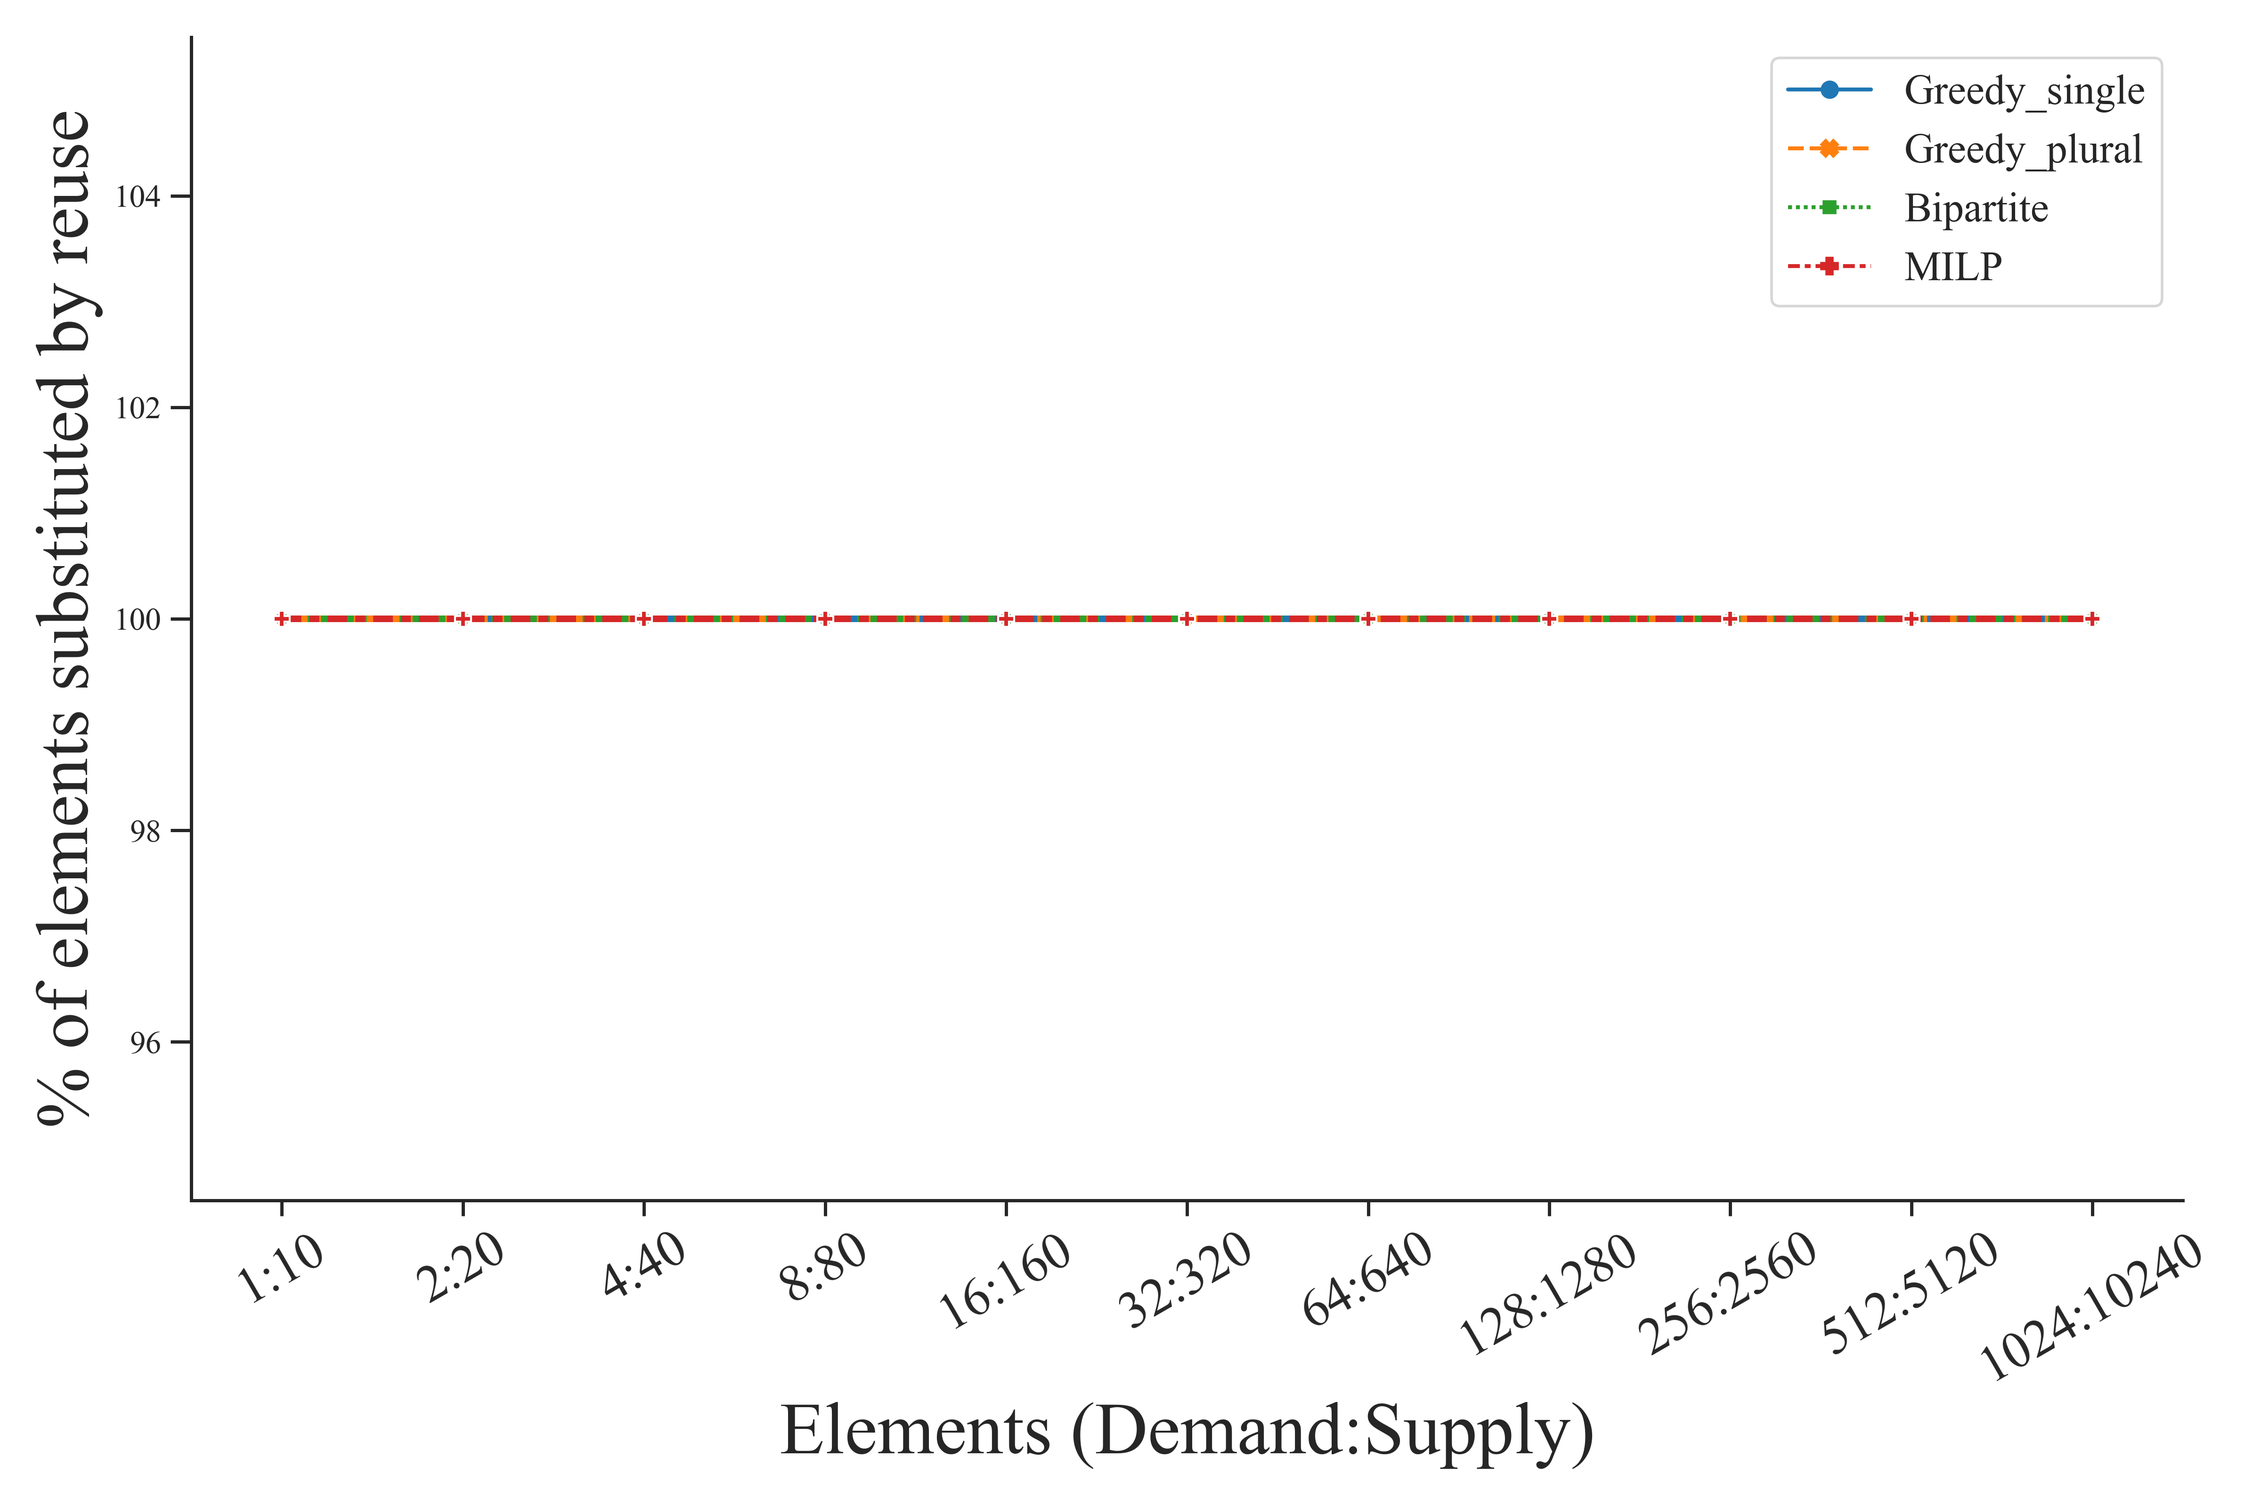
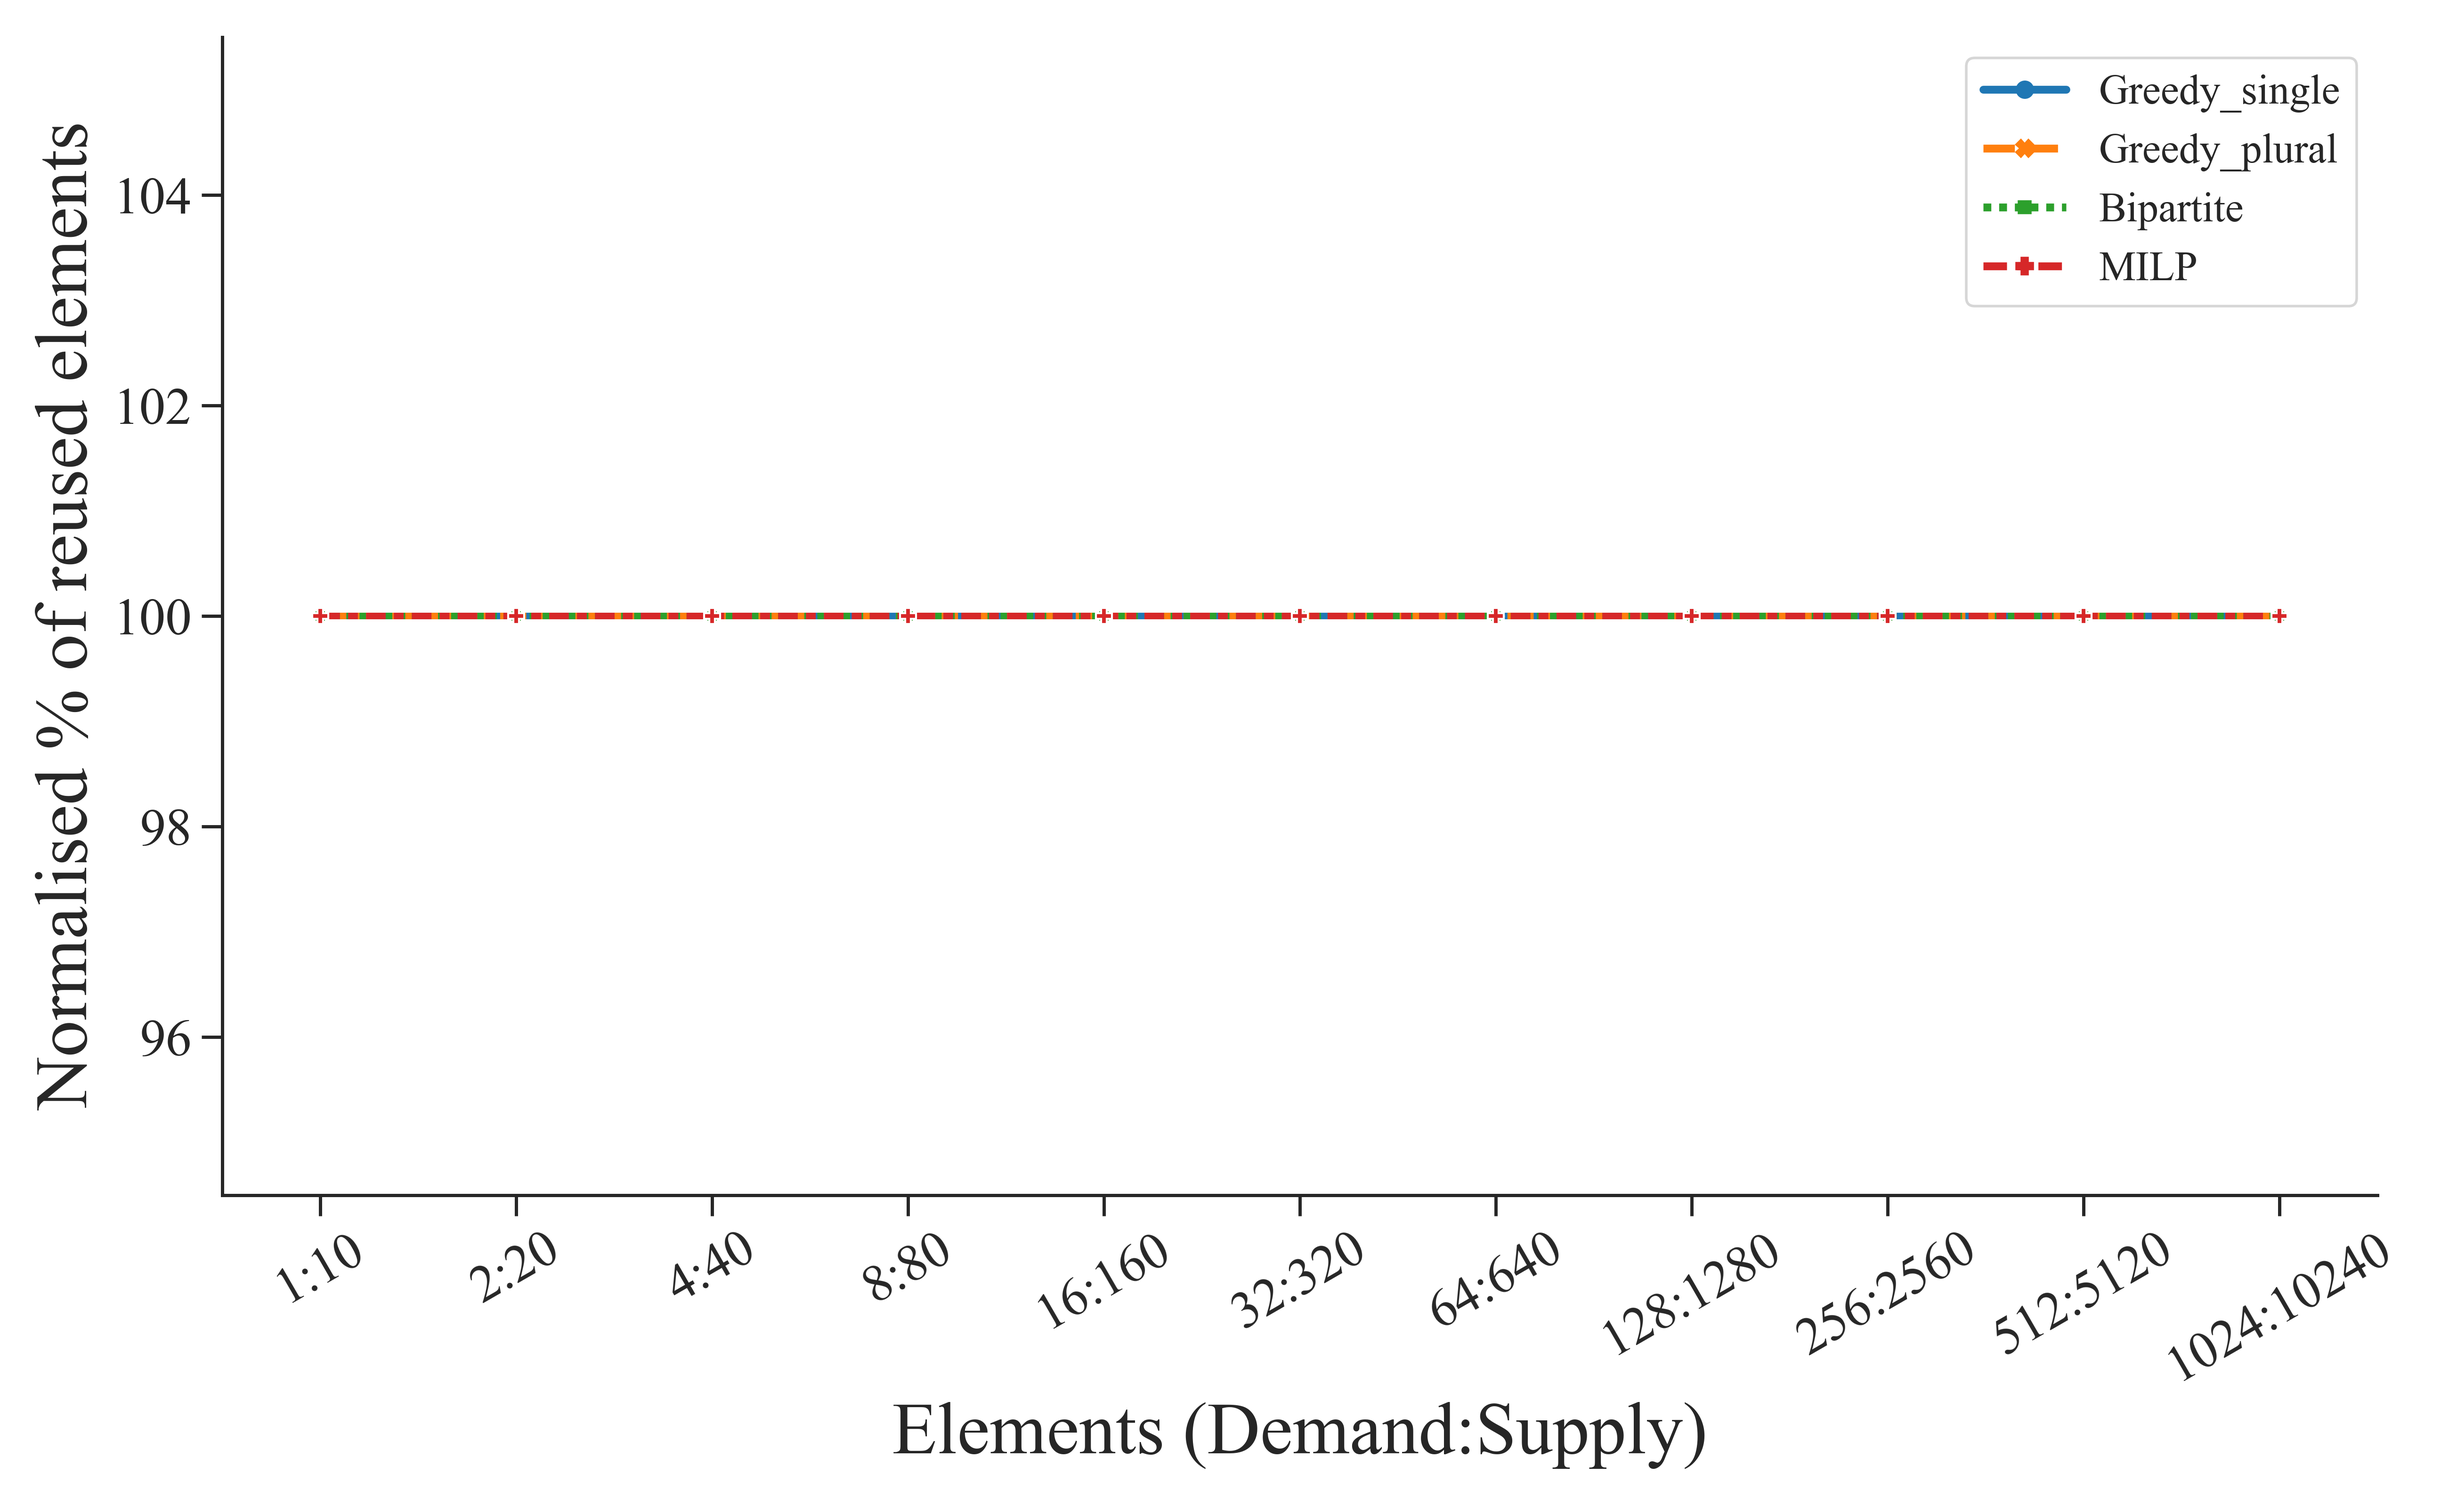
opp

diff --git a/Matching/helper_methods.py b/Matching/helper_methods.py
@@ -126,13 +126,15 @@ def plot_hexbin_remap(df, unique_values, style = 'ticks', font_scale = 1.0, save
      
     map_dict = {a:cs for a, cs in zip(sorted(unique_values), cross_secs)}
     map_dict2 = {a:(i+1) for i, a in enumerate(sorted(unique_values))}
+    
+    df.rename({'Length':'Length [m]'}, axis = 1, inplace = True)
     df['Cross Sections [mm]'] = df.Area.map(map_dict2).astype(int)
-    g = sns.jointplot(x=df['Length'], y=df['Cross Sections [mm]'], kind="hex", color="#4CB391", bins = 2*len(cross_secs))
-    #g = sns.jointplot(x=df['Length'], y=df['Cross Sections [mm]'], kind="hist", color="#4CB391")
+    g = sns.jointplot(x=df['Length [m]'], y=df['Cross Sections [mm]'], kind="hex", color="#4CB391") # "YlOrBr", #4CB391, #706e64
+    #g = sns.jointplot(x=df['Length [m]'], y=df['Cross Sections [mm]'], kind="hist", color="#4CB391")
     g.ax_joint.set_yticks(list(map_dict2.values()))
     g.ax_joint.set_yticklabels(cross_secs)
 
-    x_ticks = np.arange(df.Length.min()+1, df.Length.max()+2, 2)
+    x_ticks = np.arange(df['Length [m]'].min()+1, df['Length [m]'].max()+2, 2)
     g.ax_joint.set_xticks(x_ticks)
     g.ax_joint.set_xticklabels(map(int, x_ticks))
 
@@ -167,7 +169,7 @@ def plot_savings(result_df, normalize = True, style = 'ticks', font_scale = 1.1,
     fig, ax = plt.subplots(1,1)
     # data = pd.DataFrame(result_list, columns=['GreedyS','GreedyP','MaxBM','MIP'])
     sns.lineplot(data=result_df, palette="tab10", linewidth=2.5, markers=True, ax = ax)
-    ax.set(xlabel= xlabel, ylabel='Score saved')
+    ax.set(xlabel= xlabel, ylabel='Normalised Score(GWP) savings')
     plt.xticks(rotation=30)
 
     if save_fig:
@@ -186,7 +188,7 @@ def plot_old(result_df, normalize = True, style = 'ticks', font_scale = 1.1, sav
 
     sns.set_theme(style = style, font_scale = font_scale, rc = kwargs)
     sns.lineplot(data=result_df, palette="tab10", linewidth=2.5, markers=True, ax = ax)
-    ax.set(xlabel= xlabel, ylabel='% of elements substituted by reuse')
+    ax.set(xlabel= xlabel, ylabel='Normalised % of reused elements')
     plt.xticks(rotation=30)
 
     if save_fig:

diff --git a/Results/display_results.py b/Results/display_results.py
@@ -25,16 +25,21 @@ var_time_df =  pd.read_csv('Results\\CSV_Matching\\2023-02-23_08-45_Result_var_a
 # Create global settings for all plots
 plot_kwargs = {'font.family':'serif','font.serif':['Times New Roman'], 'axes.labelsize' : 28,
                 'axes.spines.right' : False, 'axes.spines.top' : False ,
-                'figure.figsize' : [12,8], 'ytick.major.size': 8.0, 'ytick.major.size': 8.0, 
-                'xtick.labelsize': 20.0, 'xtick.labelsize': 20.0,
-                'legend.fontsize' : 'large'}
+                'figure.figsize' : [13,8], 'xtick.major.size': 8.0, 'ytick.major.size': 8.0, 
+                'xtick.labelsize': 20.0, 'ytick.labelsize': 20.0,
+                'legend.fontsize' : 'large', 'lines.linewidth' : 3}
 save_figs = True
 show_figs = False
 #figsize = (10,10)
 # plot hexbin of all elements
-plot_hexbin_remap(all_elem_df, set(all_elem_df.Area), font_scale=1, save_fig = save_figs, show_fig= show_figs, **plot_kwargs)
+plot_kwargs_hex = {'font.family':'serif','font.serif':['Times New Roman'], 'axes.labelsize' : 12,
+                'axes.spines.right' : False, 'axes.spines.top' : False ,
+                'figure.figsize' : [12,8], 'ytick.major.size': 6.0, 'xtick.major.size': 6.0, 
+                'xtick.labelsize': 12.0, 'ytick.labelsize': 12.0,
+                'legend.fontsize' : 'large'}
+plot_hexbin_remap(all_elem_df, set(all_elem_df.Area), font_scale=1, save_fig = save_figs, show_fig= show_figs, **plot_kwargs_hex)
 
-
+"""
 ratio_or_amount = 'amount'
 plot_savings(var_score_df, save_fig = save_figs, show_fig= show_figs, ratio_amount= ratio_or_amount, **plot_kwargs) 
 plot_old(var_sub_df, save_fig = save_figs,  show_fig= show_figs, ratio_amount= ratio_or_amount, **plot_kwargs) 
@@ -51,4 +56,4 @@ plot_savings(var_score_ratio_df, save_fig = save_figs, show_fig= show_figs, rati
 plot_old(var_sub_ratio_df, save_fig = save_figs,  show_fig= show_figs, ratio_amount= amount, **plot_kwargs) 
 plot_time(var_time_ratio_df, save_fig = save_figs,  show_fig= show_figs, ratio_amount= amount, **plot_kwargs)
 
-                            
+"""

diff --git a/TestCases/study_case_trusses.py b/TestCases/study_case_trusses.py
@@ -149,7 +149,7 @@ if __name__ == "__main__":
         # [512,5120],
         # [1024,10240],
         #only without MIP
-        [2048,20480],
+        # [2048,20480],
         #[4096,40960],
         ]
 
